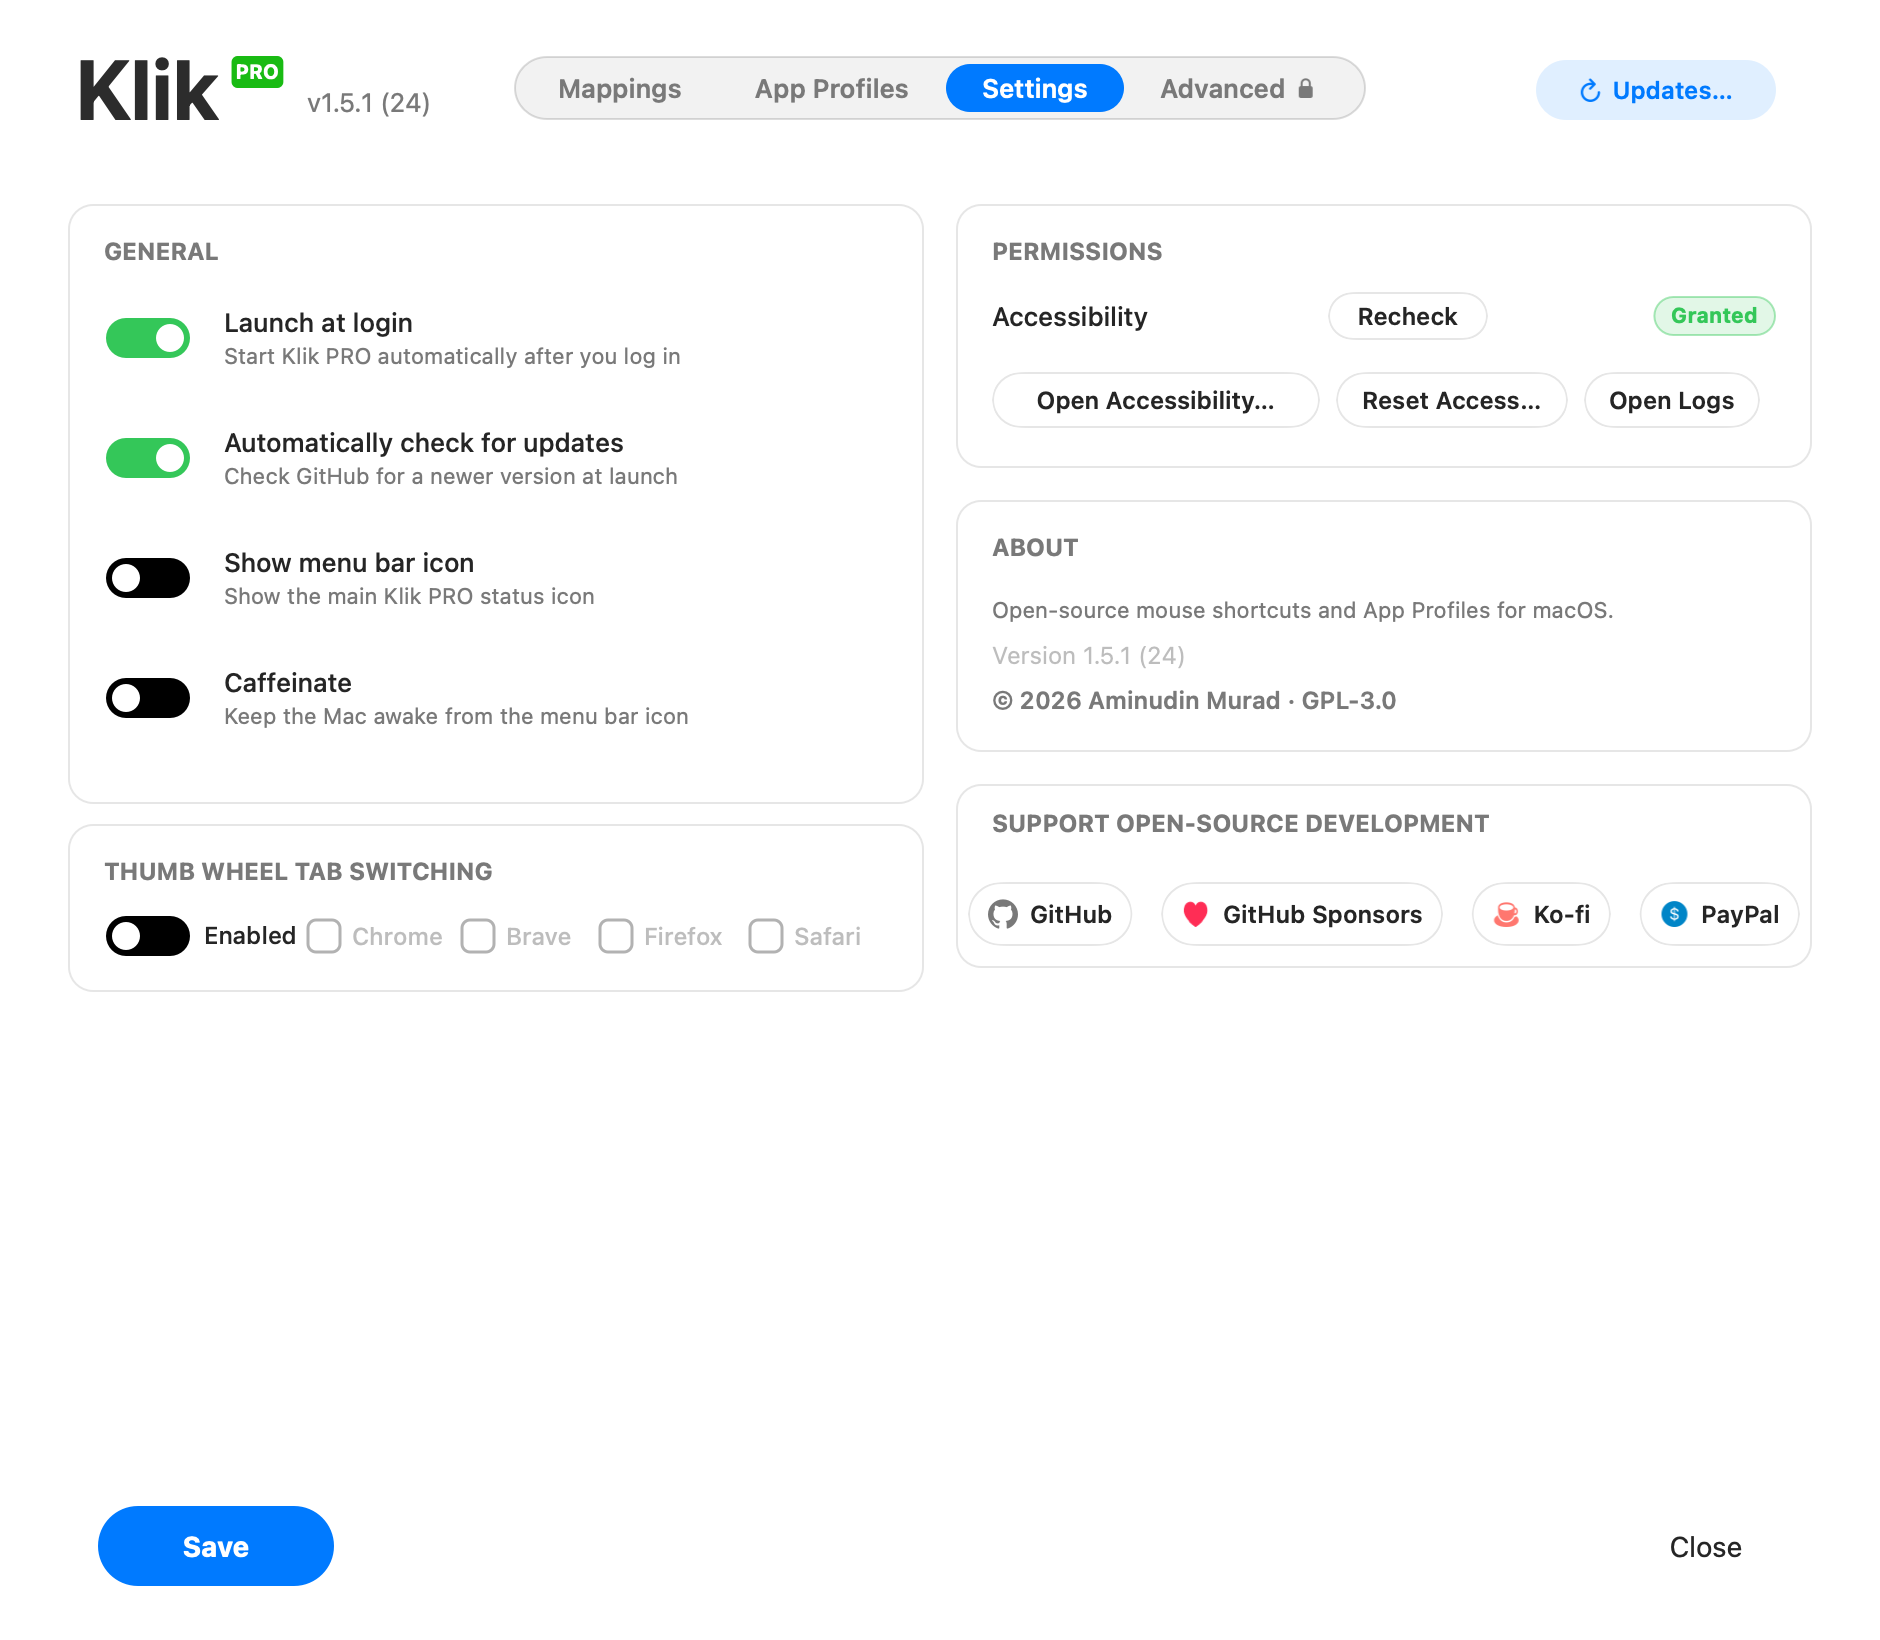
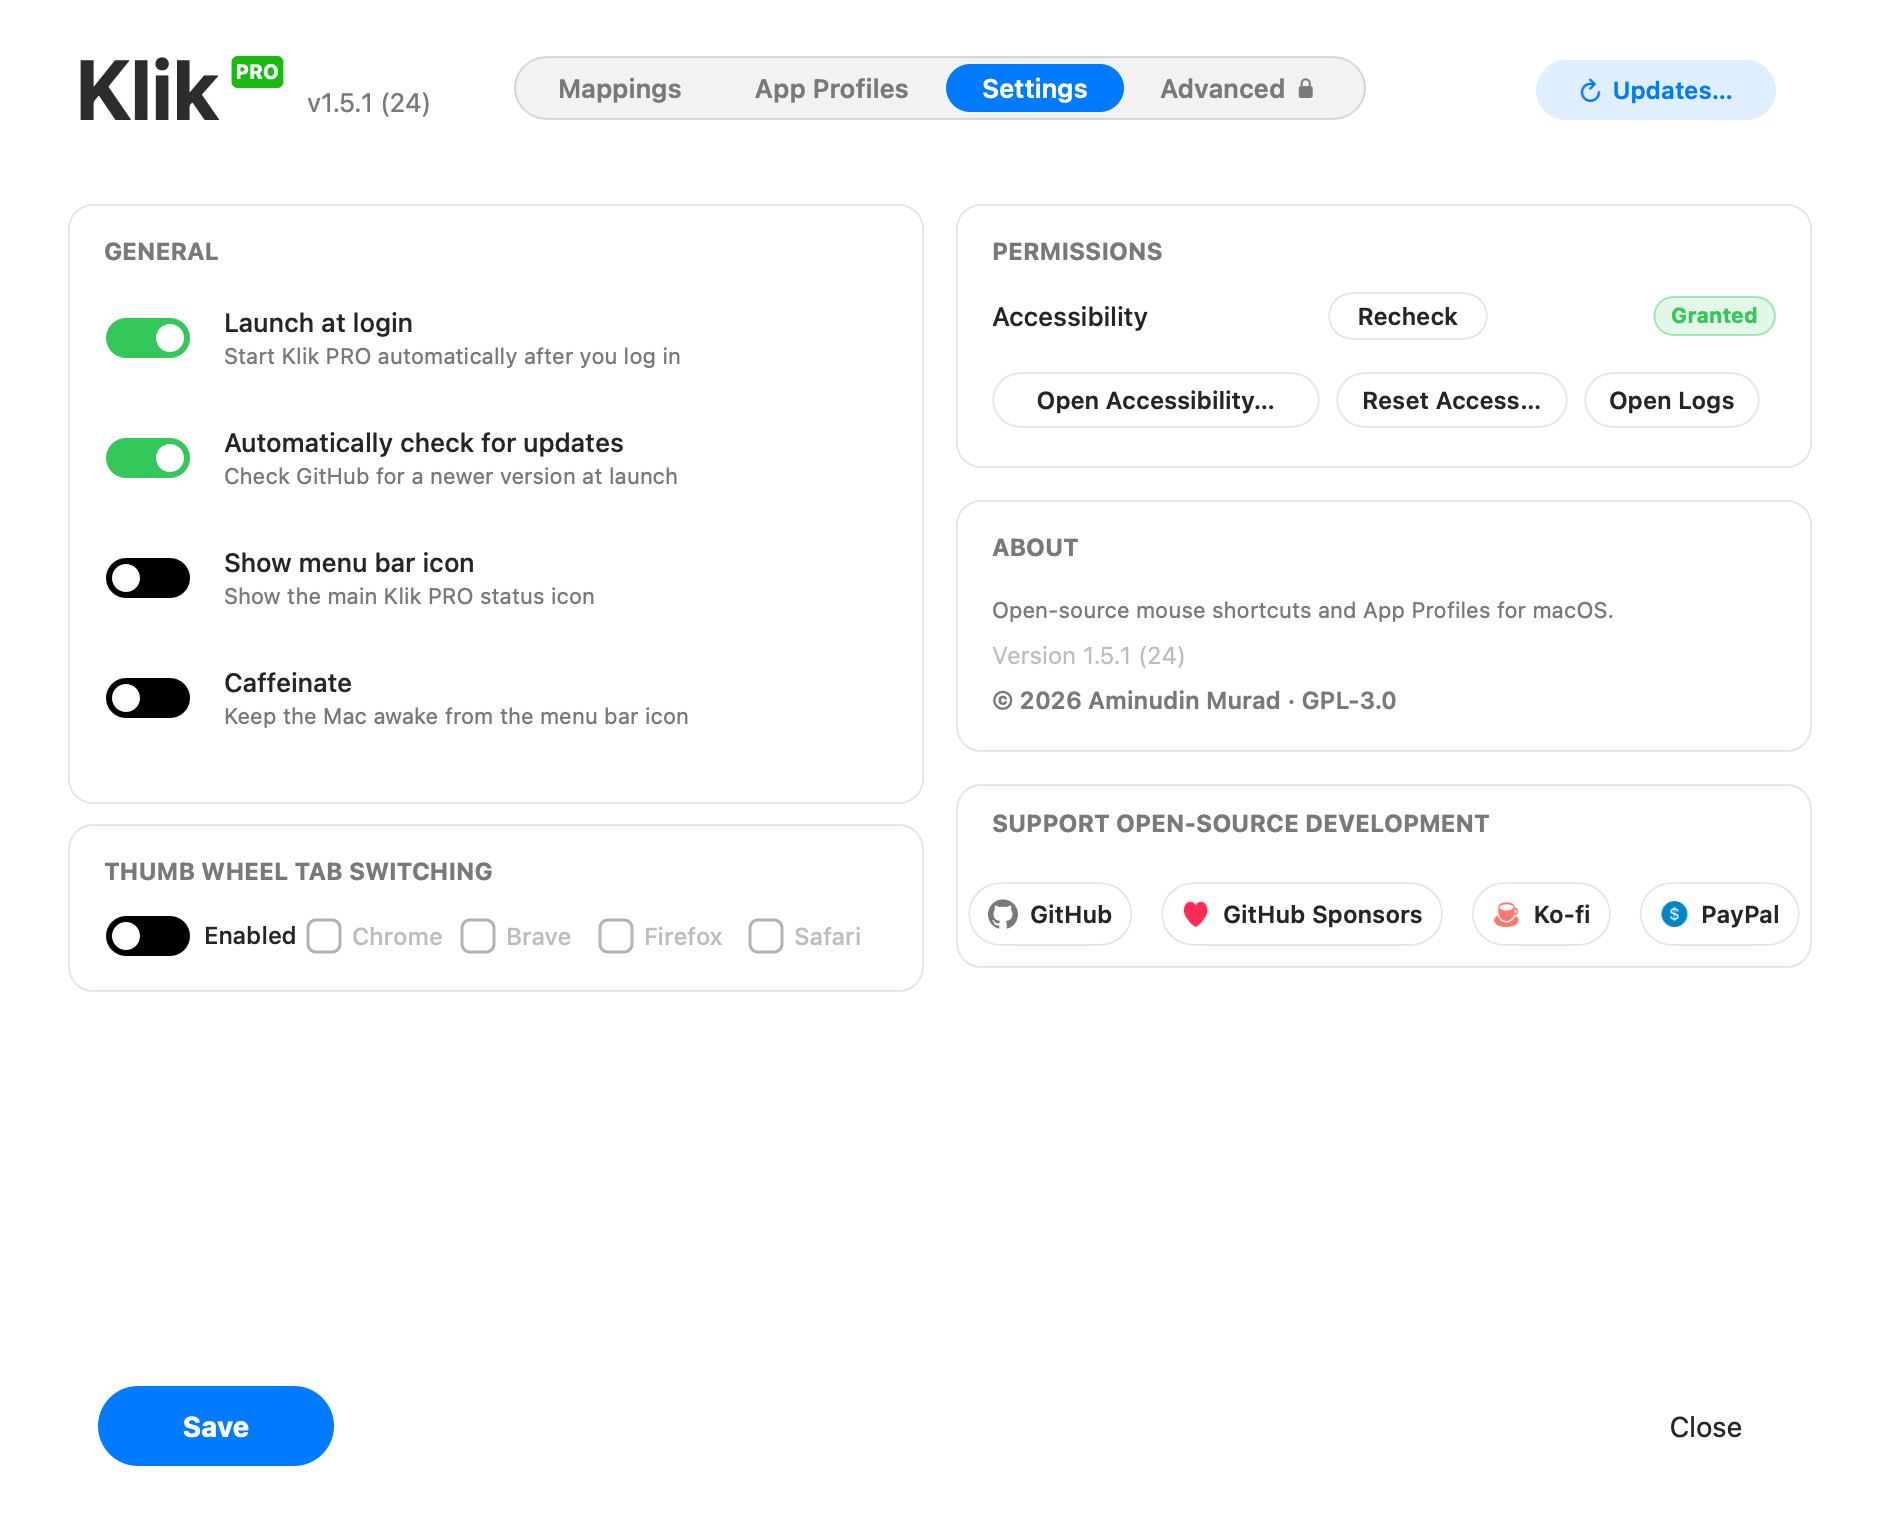
Finalize 13-inch dashboard height

diff --git a/Sources/KlikProApp.swift b/Sources/KlikProApp.swift
@@ -2647,7 +2647,7 @@ final class SettingsContentView: NSView {
     // App Profiles tab — so the guide gets the larger share of the height.
     static let deviceCard         = NSRect(x: 0, y: 0, width: rightCardX + rightCardW, height: 326)
     // Native apps + App Profiles, side by side across the full width, below the guide.
-    static let mappingBottomCard  = NSRect(x: 0, y: 340, width: rightCardX + rightCardW, height: 308)
+    static let mappingBottomCard  = NSRect(x: 0, y: 340, width: rightCardX + rightCardW, height: 248)
 
     private static func previewAppIcon(for target: QuickLaunchTarget) -> NSImage {
         let label = target == .chatGPT ? "G" : "C"
@@ -2865,7 +2865,7 @@ final class SettingsContentView: NSView {
             frame: NSRect(x: 380, y: 68, width: 150, height: 26)
         )
 
-        super.init(frame: NSRect(x: 0, y: 0, width: width, height: 648))
+        super.init(frame: NSRect(x: 0, y: 0, width: width, height: 588))
 
         mouseSlideContainer.wantsLayer = true
         mouseSlideContainer.drawArtwork = { [weak self] card in
@@ -4082,7 +4082,7 @@ final class ToggleWindowController: NSWindowController {
 
     init() {
         let window = NSWindow(
-            contentRect: NSRect(x: 0, y: 0, width: 940, height: 820),
+            contentRect: NSRect(x: 0, y: 0, width: 940, height: 760),
             styleMask: [.titled, .closable, .miniaturizable],
             backing: .buffered,
             defer: false
@@ -4199,14 +4199,14 @@ final class ToggleView: NSView {
     private var mouseAccessRequired = false
     private let saveButton = PrimaryHoverButton(
         title: "Save",
-        frame: NSRect(x: 48, y: 752, width: 120, height: 42)
+        frame: NSRect(x: 48, y: 692, width: 120, height: 42)
     )
     // Check-for-updates button, top-right of the header (where the status pill used to be).
     // Right edge stays at x=888; the compact "⟳ Updates…" label lets it be narrower.
     private let updateButtonRect = NSRect(x: 768, y: 30, width: 120, height: 30)
     private var updateButtonTrackingArea: NSTrackingArea?
     private var updateButtonHovered = false
-    private let closeButtonRect = NSRect(x: 808, y: 752, width: 90, height: 42)
+    private let closeButtonRect = NSRect(x: 808, y: 692, width: 90, height: 42)
     private var closeButtonTrackingArea: NSTrackingArea?
     private var closeButtonHovered = false
     // Set by a successful check when a newer release exists; lights up the header button.
@@ -4304,12 +4304,12 @@ final class ToggleView: NSView {
         appProfilesView = AppProfilesContentView(
             instances: loadedConfig.instances,
             width: 872,
-            height: 648
+            height: 588
         )
         advancedView = AdvancedSettingsContentView(
             dataRoot: loadedConfig.dataRoot,
             width: 872,
-            height: 648
+            height: 588
         )
 
         super.init(frame: frameRect)
@@ -4318,7 +4318,7 @@ final class ToggleView: NSView {
         layer?.backgroundColor = NSColor.windowBackgroundColor.cgColor
 
         addSubview(headerWordmark)
-        scrollView.frame = NSRect(x: 34, y: 82, width: 872, height: 648)
+        scrollView.frame = NSRect(x: 34, y: 82, width: 872, height: 588)
         scrollView.hasVerticalScroller = false
         scrollView.autohidesScrollers = true
         scrollView.drawsBackground = false
@@ -10215,7 +10215,7 @@ final class ToggleView: NSView {
                 .font: NSFont.systemFont(ofSize: 12, weight: .semibold),
                 .foregroundColor: NSColor.systemRed
             ]
-            "Unsaved changes".draw(at: NSPoint(x: 184, y: 764), withAttributes: attrs)
+            "Unsaved changes".draw(at: NSPoint(x: 184, y: 704), withAttributes: attrs)
         }
 
         if let message = saveStatusMessage {
@@ -10223,7 +10223,7 @@ final class ToggleView: NSView {
                 .font: NSFont.systemFont(ofSize: 12),
                 .foregroundColor: NSColor.appTextSecondary
             ]
-            message.draw(at: NSPoint(x: 356, y: 764), withAttributes: attrs)
+            message.draw(at: NSPoint(x: 356, y: 704), withAttributes: attrs)
         }
     }
 

diff --git a/Sources/AppProfilesUI.swift b/Sources/AppProfilesUI.swift
@@ -2213,7 +2213,7 @@ final class AppProfilesContentView: NSView {
 
     override var isFlipped: Bool { true }
 
-    init(instances: [AppProfileInstance], width: CGFloat, height: CGFloat = 648) {
+    init(instances: [AppProfileInstance], width: CGFloat, height: CGFloat = 588) {
         let generatorColumnWidth = floor(width * Self.generatorColumnRatio)
         let generatorListWidth = generatorColumnWidth - 36
         let generatorWidth = AppCardListView.contentWidth(for: generatorListWidth)
@@ -2603,7 +2603,7 @@ final class AdvancedSettingsContentView: NSView {
 
     override var isFlipped: Bool { true }
 
-    init(dataRoot: String?, width: CGFloat, height: CGFloat = 648) {
+    init(dataRoot: String?, width: CGFloat, height: CGFloat = 588) {
         super.init(frame: NSRect(x: 0, y: 0, width: width, height: height))
 
         // Locked state, centred. The lock icon is a pressable button.
@@ -2651,22 +2651,22 @@ final class AdvancedSettingsContentView: NSView {
         // Section 2 — Maintenance rows for the profiles Klik PRO still tracks.
         styleSectionLabel(maintenanceLabel, frame: NSRect(x: 28, y: 194, width: width - 56, height: 16))
         styleBody(maintenanceBody, frame: NSRect(x: 28, y: 218, width: width - 56, height: 36))
-        maintenanceScroll.frame = NSRect(x: 28, y: 260, width: width - 56, height: 178)
+        maintenanceScroll.frame = NSRect(x: 28, y: 260, width: width - 56, height: 126)
         maintenanceScroll.drawsBackground = false
         maintenanceScroll.hasVerticalScroller = true
         maintenanceScroll.autohidesScrollers = true
         maintenanceScroll.documentView = maintenanceDocument
 
         // Section 3 — Profile cleanup for what removed profiles left behind.
-        styleSectionLabel(cleanupLabel, frame: NSRect(x: 28, y: 466, width: width - 56, height: 16))
-        styleBody(cleanupBody, frame: NSRect(x: 28, y: 490, width: width - 56, height: 36))
-        deepScanButton.frame = NSRect(x: 28, y: 536, width: 226, height: 28)
+        styleSectionLabel(cleanupLabel, frame: NSRect(x: 28, y: 414, width: width - 56, height: 16))
+        styleBody(cleanupBody, frame: NSRect(x: 28, y: 438, width: width - 56, height: 36))
+        deepScanButton.frame = NSRect(x: 28, y: 484, width: 226, height: 28)
         deepScanButton.toolTip =
             "Find and remove leftover Dock, Launchpad, and menu-bar icons, custom-icon "
             + "copies, lock files, and data folders from profiles you've removed."
         deepScanButton.onPress = { [weak self] in self?.onDeepScan?() }
 
-        statusField.frame = NSRect(x: 28, y: 578, width: width - 56, height: 40)
+        statusField.frame = NSRect(x: 28, y: 526, width: width - 56, height: 40)
         statusField.font = .systemFont(ofSize: 12)
         statusField.textColor = .appTextSecondary
 
@@ -2918,7 +2918,7 @@ final class AdvancedSettingsContentView: NSView {
         if !isLocked {
             NSColor.separatorColor.setFill()
             NSBezierPath(rect: NSRect(x: 28, y: 184, width: bounds.width - 56, height: 1)).fill()
-            NSBezierPath(rect: NSRect(x: 28, y: 452, width: bounds.width - 56, height: 1)).fill()
+            NSBezierPath(rect: NSRect(x: 28, y: 400, width: bounds.width - 56, height: 1)).fill()
         }
     }
 }

diff --git a/tools/render-app-profiles-showcase.swift b/tools/render-app-profiles-showcase.swift
@@ -38,13 +38,13 @@ let scenes = [
         image: profiles,
         title: "Make every profile unmistakable",
         subtitle: "Use a colour tint or an initial badge — without modifying the original app.",
-        crop: NSRect(x: 700, y: 190, width: 1080, height: 1450)
+        crop: NSRect(x: 700, y: 160, width: 1080, height: 1300)
     ),
     Scene(
         image: profiles,
         title: "Manage identity from one place",
         subtitle: "Open the gear menu to rename, change the icon, or remove it from Klik PRO.",
-        crop: NSRect(x: 700, y: 430, width: 1080, height: 980)
+        crop: NSRect(x: 700, y: 360, width: 1080, height: 960)
     ),
     Scene(
         image: mappings,
@@ -52,11 +52,10 @@ let scenes = [
         subtitle: "App Profiles and Mappings refresh together, so assignments stay easy to recognise.",
         // Framed on the Mappings APP PROFILES column (y is from the TOP — see the
         // `crop` doc comment), so the scene actually shows the badged icons its caption
-        // is about. Re-tuned when the list gained its three-card viewport and the taller
-        // header gap: those moved the rows down, leaving the previous rect framing the
-        // mouse card instead. Nothing in check.sh verifies this framing — it only asserts
-        // the GIF exists — so re-check it by eye after any change to the list geometry.
-        crop: NSRect(x: 950, y: 938, width: 850, height: 700)
+        // is about. Re-tuned for the 940×760 dashboard and its two-row list viewport.
+        // Nothing in check.sh verifies this framing — it only asserts the GIF exists —
+        // so re-check it by eye after any change to the list geometry.
+        crop: NSRect(x: 950, y: 800, width: 850, height: 580)
     ),
 ]
 

diff --git a/tools/MouseSlideHitTestMain.swift b/tools/MouseSlideHitTestMain.swift
@@ -66,7 +66,7 @@ private struct MouseSlideHitTestMain {
             frame: NSRect(x: 0, y: 0, width: card.width, height: 640)
         )
         let document = HostView(
-            frame: NSRect(x: 0, y: 0, width: card.width, height: 648)
+            frame: NSRect(x: 0, y: 0, width: card.width, height: 588)
         )
         let container = MouseSlideContainerView(frame: card)
 

diff --git a/docs/HANDOFF_NEXT_UPDATE_v1.5.0.md b/docs/HANDOFF_NEXT_UPDATE_v1.5.0.md
@@ -45,22 +45,23 @@ dominant idle cost. The stable poll now compares cheap profile-file fingerprints
 and performs full health validation only after a relevant change; managed launch
 actions continue to revalidate independently and fail closed.
 
-The dashboard is now sized for a 13-inch MacBook:
+The dashboard is now sized around the MacBook Air M1 13-inch default
+1440 × 900 workspace:
 
-- fixed content size: `940 × 820` points (previously `940 × 934`);
-- fixed dashboard viewport: `872 × 648` points, with no outer vertical scroller;
+- fixed content size: `940 × 760` points (previously `940 × 934`);
+- fixed dashboard viewport: `872 × 588` points, with no outer vertical scroller;
 - the Mappings mouse guide and its callouts use a compact 326-point card;
 - Native Apps, App Profiles, and Advanced maintenance are the only vertically
   scrolling areas; and
 - all tracked dashboard screenshots and the App Profiles showcase were
-  re-rendered at the compact geometry.
+  re-rendered at `1880 × 1520` Retina pixels.
 
 Last full verification after the compact-dashboard change:
 
 ```text
 ./tools/xcode-dev.sh check
 All checks passed
-build/check-20260728-200050
+build/check-20260728-202617
 ```
 
 ## Private owner-test package
@@ -69,9 +70,9 @@ A private universal v1.5.1 build was recreated locally after the compact
 dashboard change:
 
 - DMG: `releases/Klik-PRO-v1.5.1-macos-universal.dmg`
[2 lines of base64/hex data omitted]
 - ZIP: `releases/Klik-PRO-v1.5.1-macos-universal.zip`
[2 lines of base64/hex data omitted]
 - Both checksum manifests and the local installer manifest have valid signatures
   from the checked-in Klik PRO release key.
 - `install-klik-pro.sh --verify-only` passed every authenticity and integrity

diff --git a/CHANGELOG.md b/CHANGELOG.md
@@ -10,7 +10,7 @@ All notable changes to Klik PRO are documented here.
 - Removed unchanged-state full code-signature rescans from the helper's
   five-second availability poll. Full validation still runs at startup, after
   relevant profile files change, and before every managed launch.
-- Reduced the dashboard to a 940×820-point window that fits 13-inch MacBook
+- Reduced the dashboard to a 940×760-point window that fits 13-inch MacBook
   displays without an outer vertical scrollbar. Native Apps, App Profiles, and
   Advanced maintenance retain independent scrolling inside their list panels.
 
